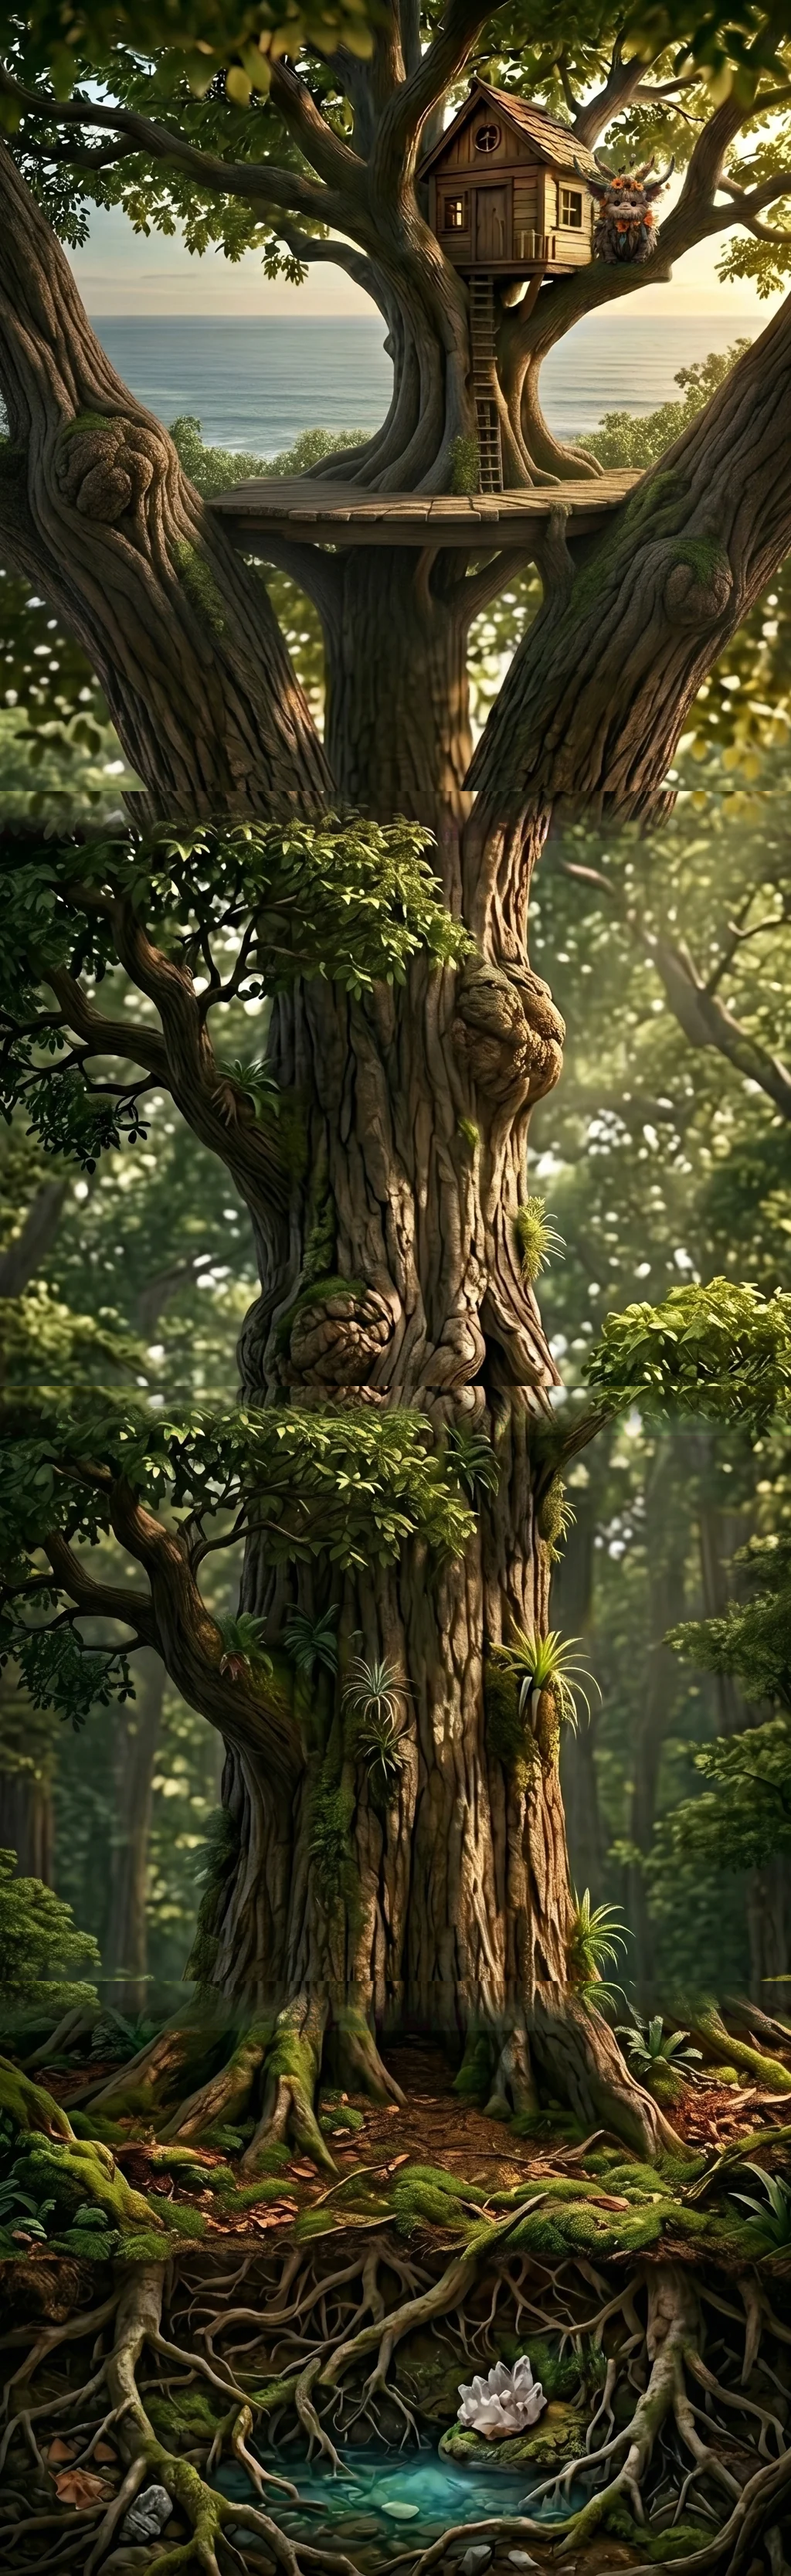
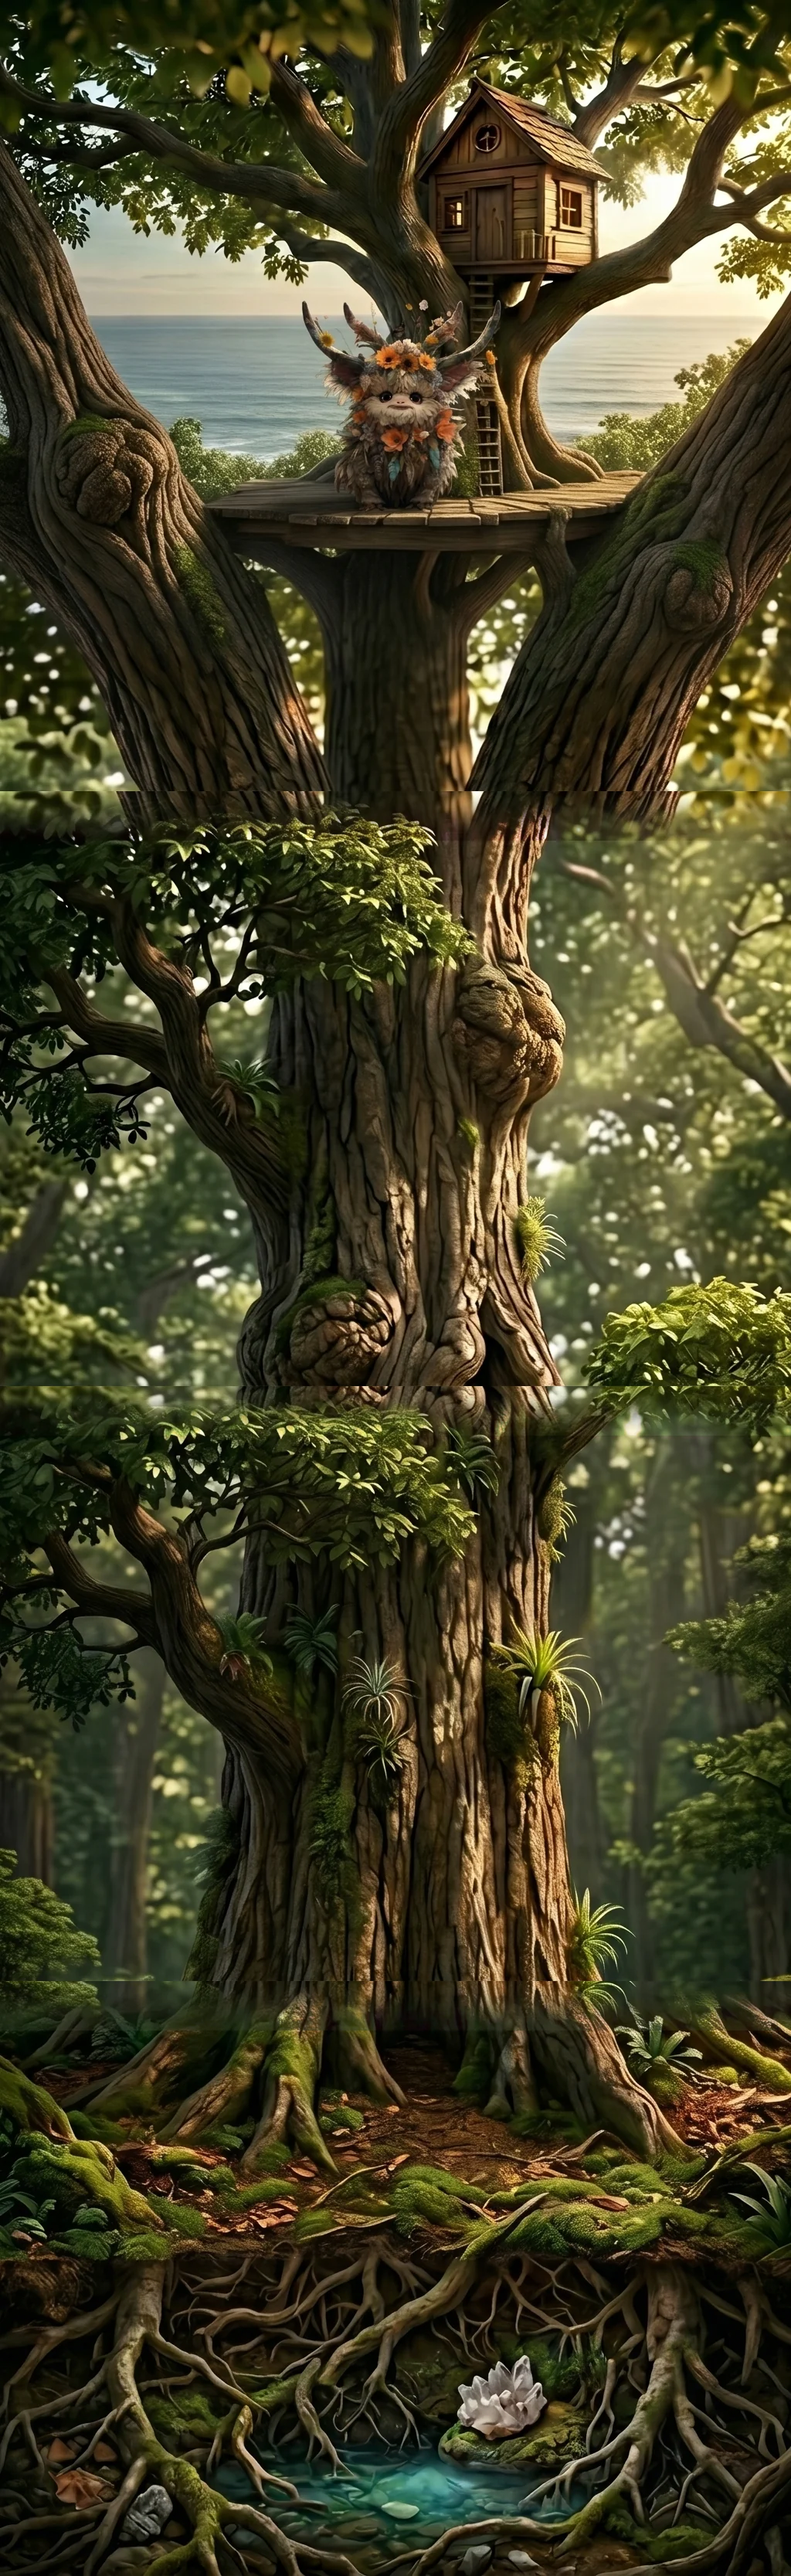
feat: place Burfoot on platform; drop section veils for smooth scroll
- Regenerate panel 1 prompt-only (no edit mask) so Nano Banana places
  Burfoot on the wooden platform rather than the right-side branch.
  Toggle: BURFOOT_BOX = None in scripts/superres_tree.py picks the
  prompt-only path; setting a box switches to surgical mask edits.
- Remove the per-section ::after veils and the lift-content z-index
  rules. The veils reset at every section boundary, which made the
  scroll feel choppy. Replace with localized text-shadow on copy in
  dark sections so legibility holds without the resetting overlays.

Changed region(s): [[0.0, 0.0624, 1.0, 0.3431], [0.6875, 0.0624, 0.875, 0.1248]]

diff --git a/styles.css b/styles.css
@@ -1434,34 +1434,9 @@ body {
   margin-top: 60px;
 }
 
-/* ----- ATMOSPHERIC VEILS (over the painted panels) ----- */
-.prologue::after,
-.branch--forest::after,
-.branch--ocean::after,
-.branch--jungle::after,
-.branch--garden::after,
-.story::after {
-  content: "";
-  position: absolute; inset: 0;
-  z-index: 0;
-  pointer-events: none;
-}
-.prologue::after     { background: linear-gradient(to bottom, rgba(20, 14, 6, .25) 0%, rgba(40, 32, 14, .15) 50%, rgba(30, 30, 18, .30) 100%); }
-.branch--forest::after  { background: linear-gradient(to bottom, rgba(10, 18, 8, .18) 0%, rgba(10, 18, 8, .40) 100%); }
-.branch--ocean::after   { background: linear-gradient(to bottom, rgba(15, 35, 50, .22) 0%, rgba(10, 28, 42, .42) 100%); }
-.branch--jungle::after  { background: linear-gradient(to bottom, rgba(20, 40, 24, .25) 0%, rgba(15, 30, 18, .45) 100%); }
-.branch--garden::after  { background: linear-gradient(to bottom, rgba(228, 184, 168, .15) 0%, rgba(80, 50, 40, .40) 100%); }
-.story::after           { background: linear-gradient(to bottom, rgba(10, 16, 8, .35) 0%, rgba(10, 16, 8, .55) 100%); }
-
-/* lift content above the veils */
-.prologue > *:not(.trunk),
-.branch__header,
-.branch .garment,
-.branch .patch,
-.story__grid {
-  position: relative;
-  z-index: 2;
-}
+/* Section veils intentionally removed — they reset at every section
+   boundary, which made scrolling look choppy. Text contrast on the
+   painted plate is handled via text-shadow on copy in dark sections. */
 
 /* ----- TEXT CONTRAST ON DARK VEILED SECTIONS ----- */
 .prologue, .branch--forest, .branch--ocean, .branch--jungle { color: var(--paper-lit); }
@@ -1470,22 +1445,27 @@ body {
 /* keep specimen-cards punchy on darkened backdrops */
 .specimen-label { box-shadow: 0 1px 0 var(--paper-lit), 0 0 0 6px var(--paper), 0 18px 50px -8px rgba(0, 0, 0, .65); }
 
-/* ----- LOWER SECTIONS (Sustain → Mission → Shop → Footer) -----
-   Each now also has its own painted panel. We add the same veil
-   treatment so text reads — sustain wants a paper-cream lift (dark
-   ink text), the others stay dark for parchment text on earth. */
-.sustain, .mission, .shop, .soil { position: relative; isolation: isolate; }
-.sustain::after, .mission::after, .shop::after, .soil::after {
-  content: "";
-  position: absolute; inset: 0;
-  z-index: 0;
-  pointer-events: none;
+.sustain, .mission, .shop, .soil { position: relative; }
+
+/* Text readability over the painted plate — replaces the per-section
+   veils with localized contrast on copy that sat over them. */
+.prologue,
+.story,
+.mission,
+.shop,
+.soil {
+  text-shadow: 0 1px 2px rgba(0, 0, 0, .55), 0 0 18px rgba(0, 0, 0, .35);
 }
-.sustain::after { background: linear-gradient(to bottom, rgba(239, 230, 207, .35) 0%, rgba(239, 230, 207, .55) 100%); }
-.mission::after { background: linear-gradient(to bottom, rgba(220, 200, 160, .20) 0%, rgba(80, 50, 30, .40) 100%); }
-.shop::after    { background: linear-gradient(to bottom, rgba(20, 12, 6, .35) 0%, rgba(20, 12, 6, .55) 100%); }
-.soil::after    { background: linear-gradient(to bottom, rgba(20, 12, 6, .35) 0%, rgba(8, 4, 2, .65) 100%); }
-.sustain__grid, .mission__grid, .shop__inner, .soil__inner { position: relative; z-index: 2; }
+.prologue .specimen-label,
+.story .book,
+.mission .counters,
+.shop .card,
+.shop .signup {
+  text-shadow: none;
+}
+.sustain {
+  text-shadow: 0 1px 1px rgba(255, 248, 230, .55);
+}
 
 /* ----- MOBILE TWEAKS (image scales down hard) ----- */
 @media (max-width: 760px) {

diff --git a/scripts/superres_tree.py b/scripts/superres_tree.py
@@ -123,6 +123,18 @@ NON-EDITING AREA — DO NOT TOUCH anything OUTSIDE the magenta rectangle:
 
 Match the top edge and bottom edge of the source exactly so the panels stitch."""
 
+# Used when BURFOOT_BOX is None — model is free to relocate Burfoot to
+# wherever reads as natural in the scene (e.g. the wooden platform).
+PROMPT_FIRST_NOMASK = """Recreate the FIRST reference image at higher resolution and crisper detail.
+
+PRESERVE the entire scene: same tree, same trunk, same canopy, same branches, same treehouse, same sky and ocean horizon, same painterly Studio Ghibli / illustrated naturalist style, same colors, same lighting, same composition. Same width and height.
+
+ONE CHANGE — character placement:
+- Place the character shown in the SECOND reference (Burfoot — a small soft round furry friendly forest creature with antler-like horns and a floral crown) sitting on the WOODEN PLATFORM in front of the treehouse, centered, painted in the same illustrated style as the rest of the scene. Burfoot is the new resident — replace any other small creature in the scene with him.
+- Burfoot should be a clearly visible focal element on the platform, not tucked away on a branch.
+
+Do NOT add anything else. Match the bottom edge of the source exactly so the panels stitch."""
+
 PROMPT_CHAIN = """Recreate the FIRST reference image at higher resolution and crisper detail.
 
 The FIRST reference has a bright MAGENTA RECTANGLE drawn around its TOP region. This rectangle is a MASK marker. The pixels INSIDE the magenta rectangle are a LOCKED, NON-EDITING ZONE — they are the bottom edge of the panel above this one and they MUST appear pixel-identical in your output. Do not redraw, restyle, recolor, or shift them. Do NOT include the magenta rectangle line itself in your output.
@@ -155,7 +167,9 @@ def add_edit_mask(src_path: Path, box: tuple[int,int,int,int]) -> Path:
 
 # Original creature in src_1 (1024x1032): small horned furry thing peeking
 # from the right side of the treehouse. Box hugs that area only.
-BURFOOT_BOX = (720, 200, 940, 420)
+# Set to None to let the model freely place Burfoot (typically on the
+# wooden platform — the more central/featured position).
+BURFOOT_BOX = None
 
 LOCK_H = 256  # rows pinned at the top of each chain panel
 
@@ -201,9 +215,13 @@ def superres(parts):
             continue
         print(f"[sr] part {i+1}")
         if i == 0:
-            masked = add_edit_mask(p, BURFOOT_BOX)
-            print(f"  edit-mask drawn at {BURFOOT_BOX}")
-            data, used = call(PROMPT_FIRST, [masked, BURFOOT])
+            if BURFOOT_BOX is not None:
+                masked = add_edit_mask(p, BURFOOT_BOX)
+                print(f"  edit-mask drawn at {BURFOOT_BOX}")
+                data, used = call(PROMPT_FIRST, [masked, BURFOOT])
+            else:
+                print(f"  no edit-mask — Burfoot placement is prompt-driven")
+                data, used = call(PROMPT_FIRST_NOMASK, [p, BURFOOT])
             target.write_bytes(data)
         else:
             locked = build_locked_source(p, out[-1], LOCK_H)
